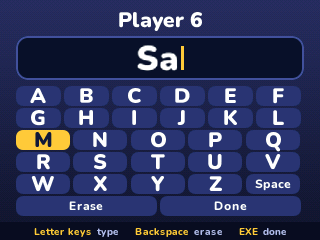
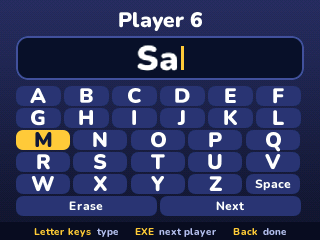
Imposter: EXE next player while adding names
Adding players, EXE and the screen's Next button open the next player's name, and the key line says Back is done.

Changed region(s): [[0.4375, 0.9333, 0.8125, 0.9917], [0.6562, 0.8167, 0.7812, 0.875]]

diff --git a/games/imposter/src/ui.c b/games/imposter/src/ui.c
@@ -489,18 +489,21 @@ static void draw_name(void) {
   int base = 58 + cap * s / 512;
   big_run(u.name, u.name_len, x, base, s, WHITE);
   gfx_fill(x + w + 3, base - cap * s / 256, 3, cap * s / 256, GOLD); /* where the next letter goes */
+  bool next = u.name_new && u.name_idx < MAX_PLAYERS - 1; /* (Done opens the next player's) */
   for (int r = 0; r < 6; r++)
     for (int c = 0; c < grid_cols[r]; c++) {
       int cell = grid_first[r] + c, x0 = 16 + c * 288 / grid_cols[r], cw = 288 / grid_cols[r] - 3, y = 86 + r * 22;
       bool on = u.gr == r && u.gc == c;
       gfx_rrect(x0, y, cw, 20, 7, on ? GOLD : CARD, 256);
       char l[2] = {(char)('A' + cell), 0};
-      const char *label = cell == CELL_SPACE ? "Space" : cell == CELL_ERASE ? "Erase" : cell == CELL_DONE ? "Done" : l;
+      const char *label = cell == CELL_SPACE ? "Space" : cell == CELL_ERASE ? "Erase" :
+                          cell == CELL_DONE ? (next ? "Next" : "Done") : l;
       const np_font_t *f = cell < CELL_SPACE ? &np_font_title : &np_font_body;
       gfx_text_center(f, x0 + cw / 2, y + (cell < CELL_SPACE ? 17 : 14), label, on ? INK : WHITE, 256);
     }
-  if (plat_typing()) KEYS("Letter keys", "type", "Backspace", "erase", "EXE", "done");
-  else KEYS("OK", "pick", "Backspace", "erase", "EXE", "done");
+  const char *first = plat_typing() ? "Letter keys" : "OK", *what = plat_typing() ? "type" : "pick";
+  if (next) KEYS(first, what, "EXE", "next player", "Back", "done");
+  else KEYS(first, what, "Backspace", "erase", "EXE", "done");
 }
 
 /* ---- Categories: two columns, ten rows shown */
